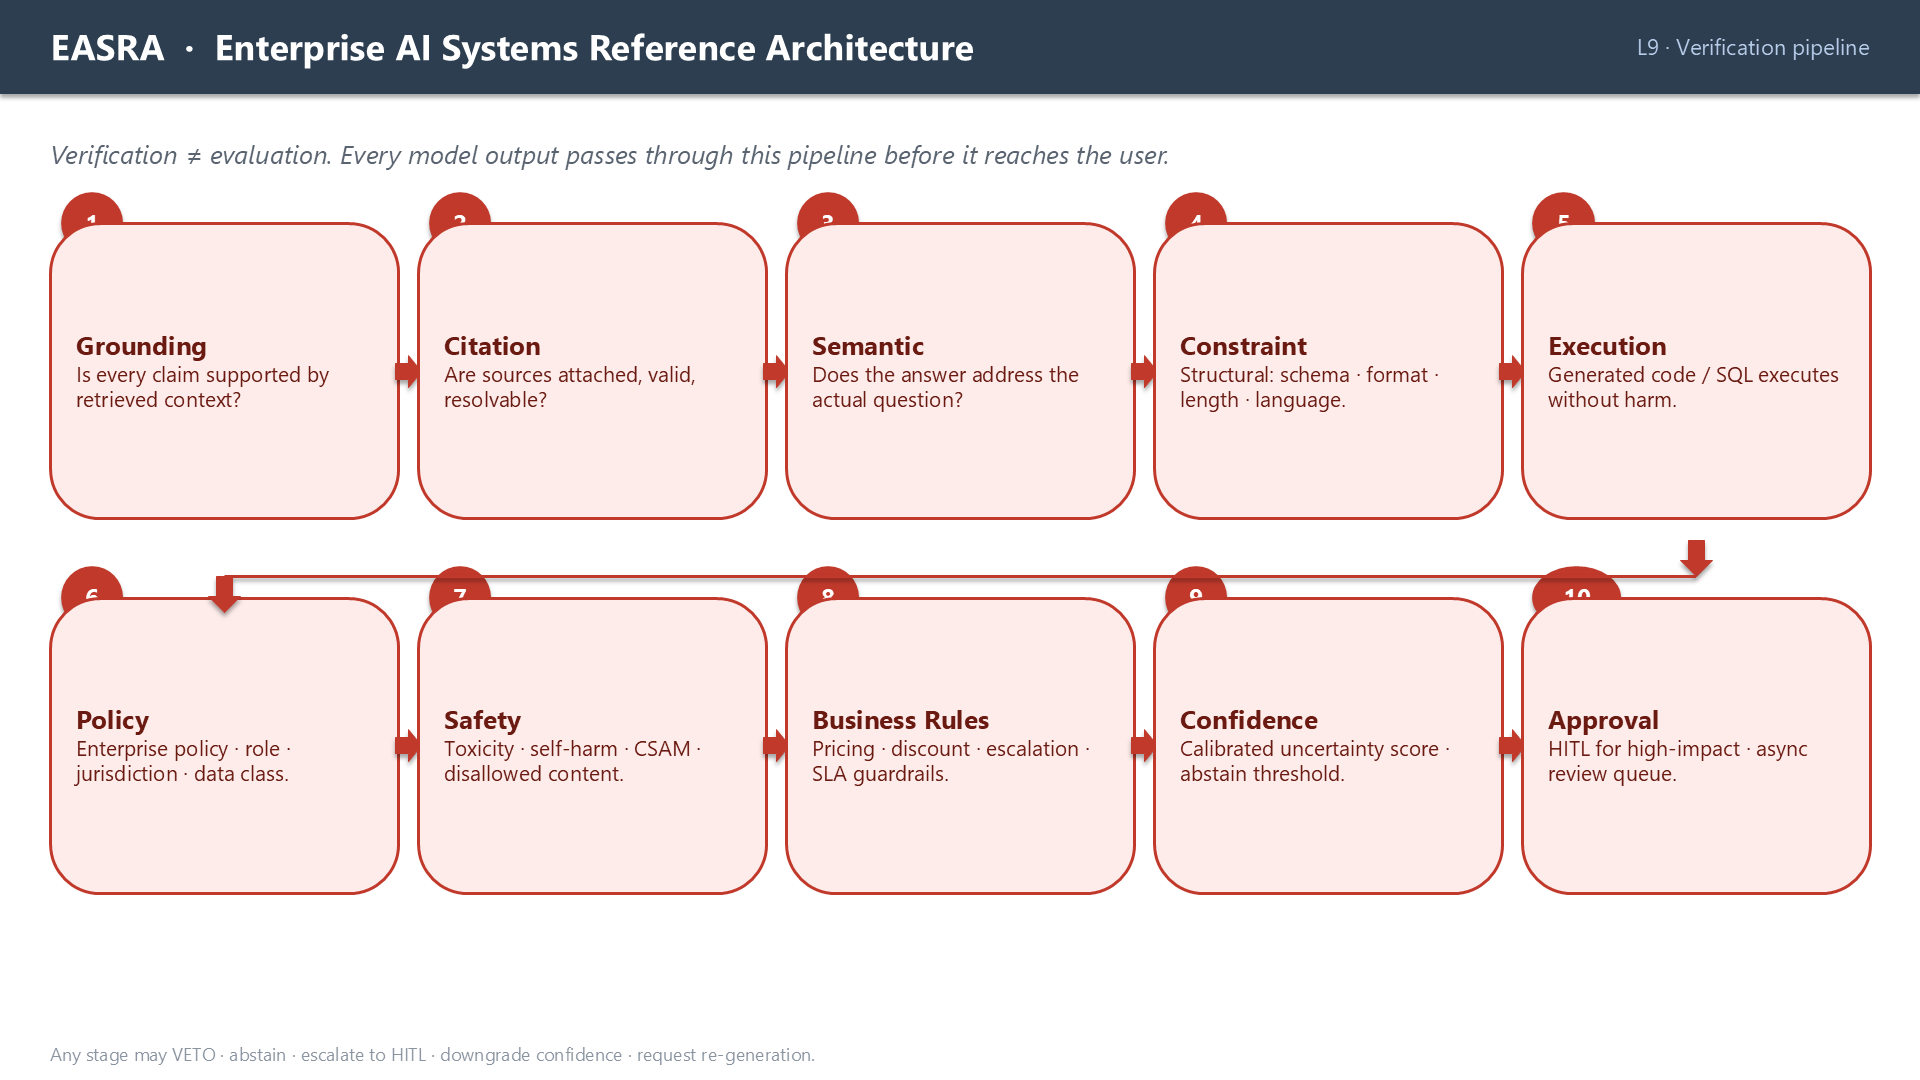
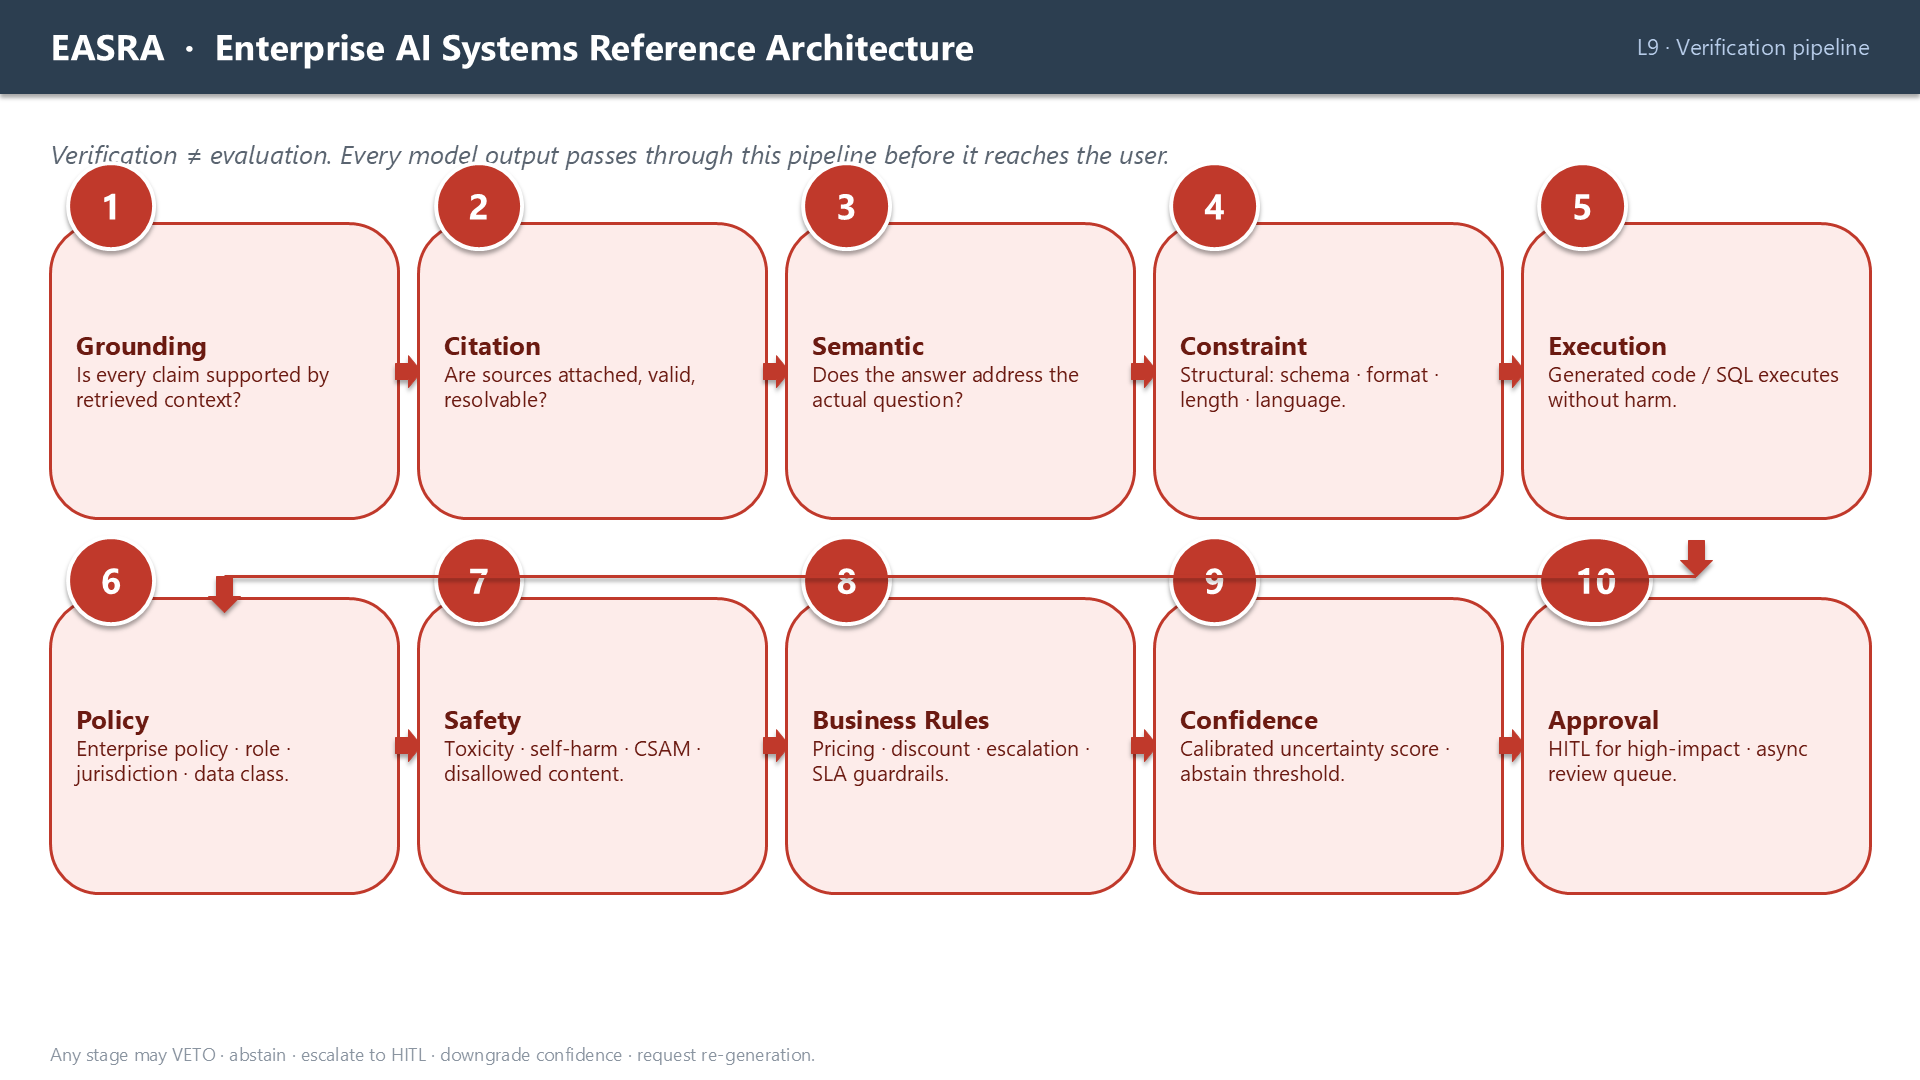
fix(conference): verification pipeline chip visibility (same z-order fix as capability ladder)

diff --git a/conference/build_linkedin_carousel.py b/conference/build_linkedin_carousel.py
@@ -1392,26 +1392,34 @@ def build_verification_pipeline(prs: Presentation):
         x = left_pad + (bw + gap) * col
         y = top1 + (row_h + row_gap) * row
         fill, border, tcol = PALETTE["security"]
-        # numbered chip on top-left (wider for two-digit numbers)
+
+        # draw card FIRST so chip can render on top
+        add_box(slide, x, y, bw, row_h, fill, border, body,
+                title=name, title_size=13, font_size=10.5,
+                title_color=tcol, text_color=tcol, align_left=True)
+
+        # numbered chip on top-left, drawn on top of the card
         two_digit = (i + 1) >= 10
-        chip_w = Inches(0.6 if two_digit else 0.42)
-        chip_h = Inches(0.42)
+        chip_w = Inches(0.78 if two_digit else 0.60)
+        chip_h = Inches(0.60)
         chip = slide.shapes.add_shape(
-            MSO_SHAPE.OVAL, int(x + Inches(0.08)), int(y - chip_h / 2),
+            MSO_SHAPE.OVAL,
+            int(x + Inches(0.12)),
+            int(y - chip_h + Inches(0.18)),
             chip_w, chip_h,
         )
         chip.fill.solid()
         chip.fill.fore_color.rgb = hex_to_rgb("#C0392B")
-        chip.line.color.rgb = hex_to_rgb("#C0392B")
-        ctf = chip.text_frame; ctf.vertical_anchor = MSO_ANCHOR.MIDDLE
+        chip.line.color.rgb = hex_to_rgb("#FFFFFF")
+        chip.line.width = Pt(2)
+        ctf = chip.text_frame
+        ctf.vertical_anchor = MSO_ANCHOR.MIDDLE
+        ctf.margin_left = Emu(0); ctf.margin_right = Emu(0)
+        ctf.margin_top = Emu(0); ctf.margin_bottom = Emu(0)
         cp = ctf.paragraphs[0]; cp.alignment = PP_ALIGN.CENTER
         cr = cp.add_run(); cr.text = str(i + 1)
-        cr.font.size = Pt(12); cr.font.bold = True
+        cr.font.size = Pt(18); cr.font.bold = True
         cr.font.color.rgb = hex_to_rgb("#FFFFFF"); cr.font.name = "Segoe UI"
-
-        add_box(slide, x, y, bw, row_h, fill, border, body,
-                title=name, title_size=13, font_size=10.5,
-                title_color=tcol, text_color=tcol, align_left=True)
 
         # right arrow to next in the same row
         if col < cols - 1: